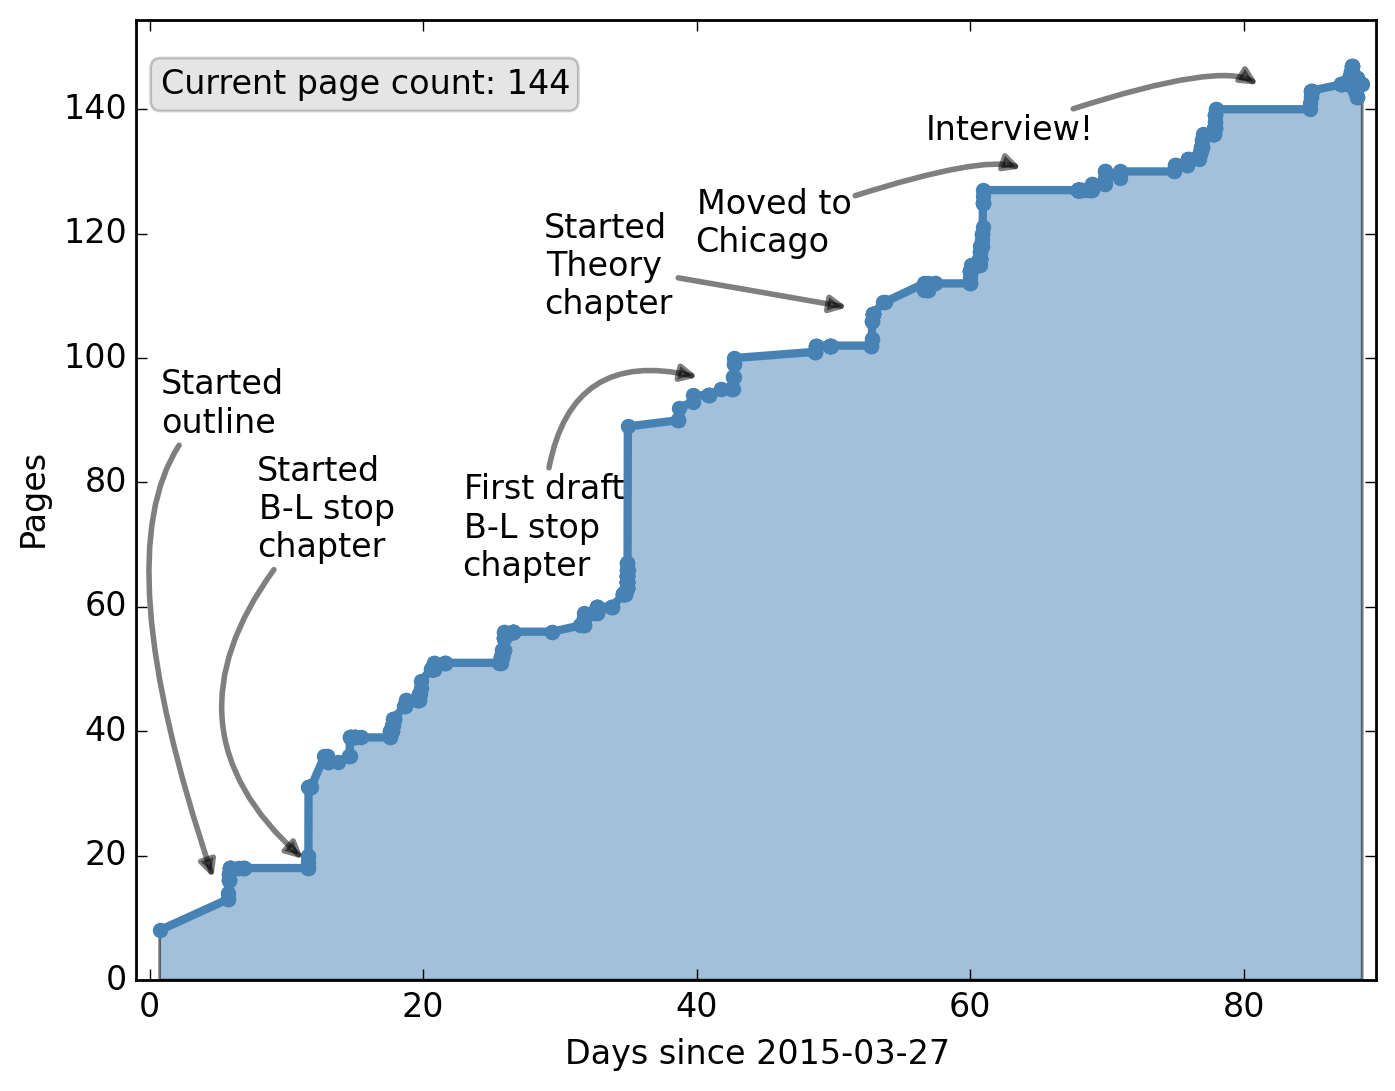
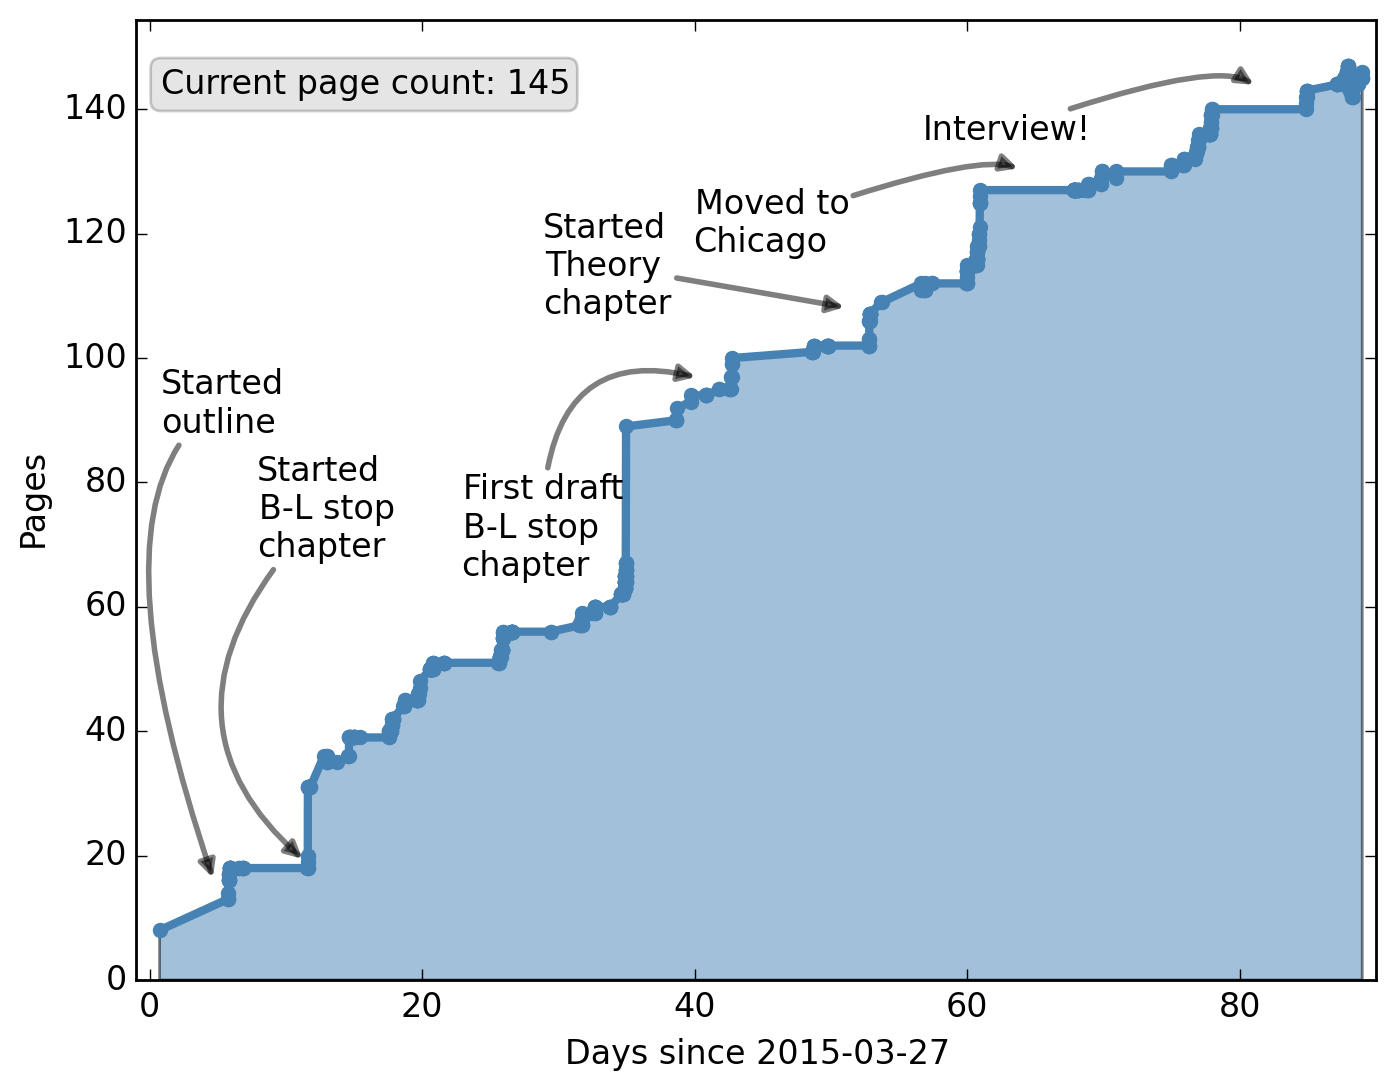
more edits

diff --git a/tex/blstop.tex b/tex/blstop.tex
@@ -1845,9 +1845,18 @@ channels of the SRs is \ZGAMMAJETS\ followed by single top and
 not contribute, thus, the largest backgrounds are single top and \TTBAR.
 
 As a result of the fit, the \ZGAMMAJETS\ background is scaled up by
-approximately 40\%. Due to this large normalization factor, the background is
-over-predicted in the $Z$ VR. This over-prediction is taken as an additional
-systematic uncertainty, described in Section~\ref{sec:systematics}.
+approximately 40\%.
+Due to this large normalization factor, the background is over-predicted in
+the $Z$ VR.
+The over-prediction is understood to be due to the difficulty in modeling
+the production of \ZGAMMA\ in association with heavy flavor quarks.
+This mismodeling is also observed by ATLAS in the SM measurement of
+the $Z$~boson differential cross section~\cite{Aad:2013ysa,Aad:2014dvb}.
+To account for this over-prediction, an additional systematic uncertainty of
+50\% is taken on the background estimate from \ZGAMMAJETS\ events in regions
+with large values of \HT.
+This is described in Section~\ref{sec:systematics} along with the other
+systematic uncertainties.
 
 % - - - - - - - - - - - - - - - - - - - - - - - - - - - - - - - - - - - - - - -
 \begin{table}[ht]
@@ -2248,6 +2257,19 @@ from in Table~\ref{tab:stop_xsec}.
 \chapter[Results][Results]{Results}
 \label{ch:results}
 
+This chapter presents the results of the $B-L$ stop search, which was
+introduced in Chapter~\ref{ch:bl_stop}.
+The observed event yields and the background prediction, obtained using a
+maximum likelihood fit, are shown in Section~\ref{sec:event_yields}.
+The chapter concludes in Section~\ref{sec:model_dependent_limits} with the
+expected and observed limits limits on the allowable stop masses in the
+context of the particular supersymmetric model with $B-L$ stop pair production.
+
+%% -----------------------------------------------------------------------------
+\FloatBarrier
+\section[Event yields][Event yields]{Event Yields}
+\label{sec:event_yields}
+
 The fitted background yields and the observed number of events in each
 signal region are shown in Tables~\ref{tab:event_yields_sr_400} and
 \ref{tab:event_yields_sr_600}.
@@ -2461,11 +2483,12 @@ channels, and weaker than expected in the $\mu\mu$ channel.
 
 %% -----------------------------------------------------------------------------
 \FloatBarrier
-\subsection{Model dependent limits}
+\section{Model dependent limits}
 \label{sec:model_dependent_limits}
 
 In the absence of an excess of events in the SRs beyond the SM prediction,
-limits are set on the allowable stop masses and branching fractions for this model.
+limits are set on the allowable stop masses and branching fractions for this
+model.
 Expected and observed exclusion limits on the signal model are determined using
 the $CL_S$ prescription based on a simultaneous fit of the SRs and
 CRs~\cite{Baak:2014wma}.
@@ -2474,12 +2497,19 @@ each signal model tested.
 An expected and observed mass limit is first determined for a single choice of
 stop branching fraction, $Br(\tilde{t} \to eb) = Br(\tilde{t} \to \mu b) = 0.5$,
 the nominal branching fraction simulated in the MC signal models.
+Then, the simulated signal samples are rescaled in order to determine mass
+limits for different choices of stop branching fractions.
+
+%% -----------------------------------------------------------------------------
+\FloatBarrier
+\subsection{Single mass limit}
+\label{sec:single_mass_limit}
 
 Each SR (SR 400 and SR 600) is interpreted separately, using the predicted and
 observed event yields in the CRs and the SR of interest.
 A maximum likelihood fit is performed to obtain the model-dependent estimate of
 the background and signal strengths.
-When calculating the expected limit the data in the SR is replaced with the
+When calculating the expected limit, the data in the SR is replaced with the
 pre-fit MC prediction.
 An expected and observed $CL_S$ value is computed for each simulated stop mass,
 in each SR to assess the relative compatibility of the data with the
@@ -2516,6 +2546,11 @@ this choice of stop branching fractions is 900~\GeV.
   }
   \label{fig:exp_limit_br_5050}
 \end{figure}
+
+%% -----------------------------------------------------------------------------
+\FloatBarrier
+\subsection{Branching fraction scan}
+\label{sec:branching_fraction_scan}
 
 This procedure of finding a stop mass limit is repeated for branching fractions
 across the plane of allowed values.
@@ -2615,7 +2650,8 @@ respectively for select stop masses of 500 \GeV\ and 900 \GeV.
 A complete collection of the expected and observed $CL_S$ plots are found in
 Appendix~\ref{sec:axp_interpretation_plots}.
 
-\begin{figure}[ht]
+% \begin{figure}[ht]
+\begin{figure}[p]
   \centering
   \subbottom[Expected $CL_S$ or SR~400]{
     \includegraphics[width=0.48\textwidth]
@@ -2632,7 +2668,8 @@ Appendix~\ref{sec:axp_interpretation_plots}.
   \label{fig:cls_plane_sr_400_m_500}
 \end{figure}
 
-\begin{figure}[ht]
+% \begin{figure}[ht]
+\begin{figure}[p]
   \centering
   \subbottom[Expected $CL_S$ or SR~600]{
     \includegraphics[width=0.48\textwidth]
@@ -2659,6 +2696,7 @@ $CL_S$ is less than 0.05, and for each branching fraction, the highest stop
 mass which is excluded is taken to be the mass limit.
 
 \begin{figure}[ht]
+% \begin{figure}[p]
   \centering
   \subbottom[Selected SR for 500~Gev stop mass]{
     \includegraphics[width=0.48\textwidth]
@@ -2670,7 +2708,7 @@ mass which is excluded is taken to be the mass limit.
   }
   \caption{
     The selected SR for select stop branching fractions for a stop mass of
-    900~\GeV.
+    500~\GeV (left) and 900~\GeV (right).
     The SR is selected by choosing the SR with the smallest expected $CL_S$
     value for a given branching fraction.
     % For several points in the branching fraction plane, SR~400 was selected because
@@ -2700,7 +2738,6 @@ The nominal stop cross section is used when determining these limit contours.
     tested.
     The mass limit shown corresponds to the highest-mass stop sample which is
     excluded.
-    {\color{red} consider moving to appendix.}
   }
   \label{fig:mass_limit_exp}
 \end{figure}

diff --git a/PageNumbers.md b/PageNumbers.md
@@ -567,3 +567,10 @@ Tue Jun 23 01:49:41 CDT 2015 , 145
 Tue Jun 23 01:50:32 CDT 2015 , 145
 Tue Jun 23 02:05:14 CDT 2015 , 145
 Tue Jun 23 10:42:31 CDT 2015 , 144
+Tue Jun 23 10:49:14 CDT 2015 , 144
+Tue Jun 23 15:21:06 CDT 2015 , 145
+Tue Jun 23 17:07:56 CDT 2015 , 145
+Tue Jun 23 18:16:13 CDT 2015 , 145
+Tue Jun 23 18:18:29 CDT 2015 , 146
+Tue Jun 23 18:19:22 CDT 2015 , 145
+Tue Jun 23 18:39:33 CDT 2015 , 145
